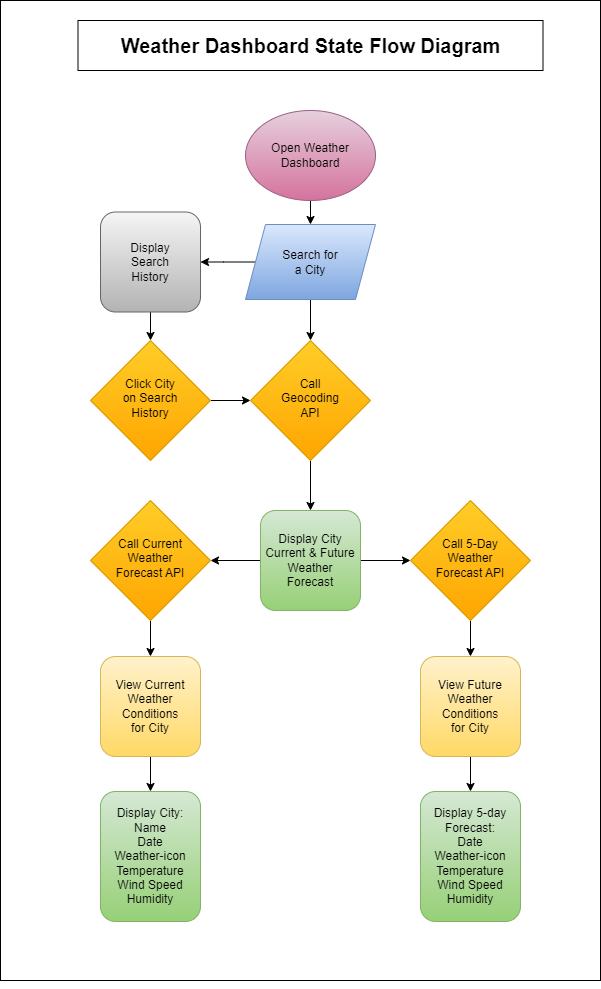
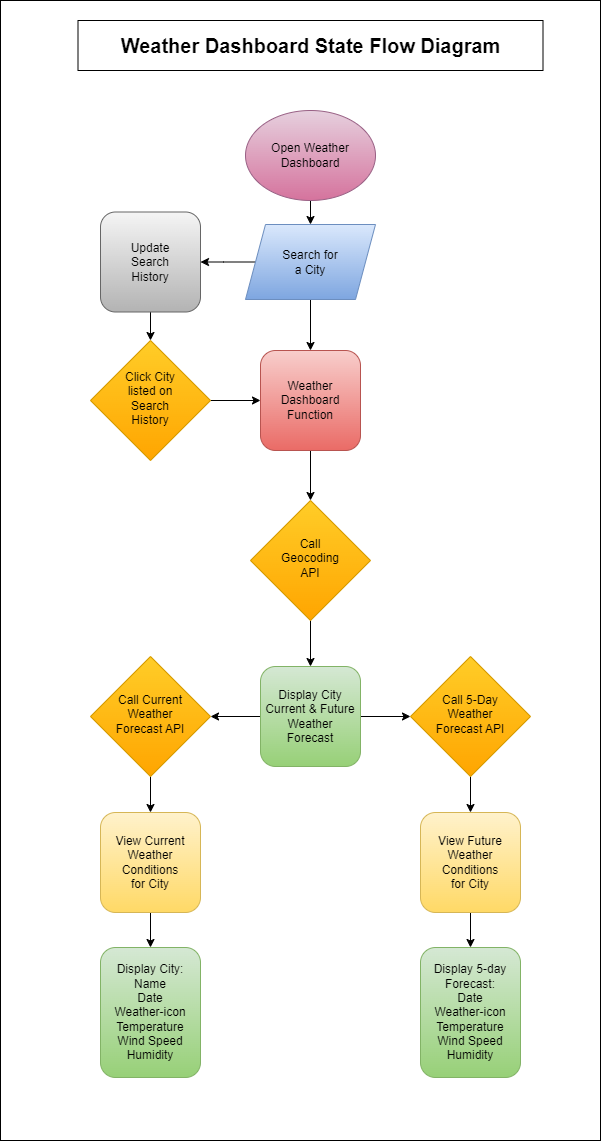
adding script functionality for dashboard

diff --git a/assets/scripts/script.js b/assets/scripts/script.js
@@ -1,86 +1,110 @@
-// Wrap all code that interacts with the DOM in a call to jQuery to ensure that
-// the code isn't run until the browser has finished rendering all the elements
-// in the html.
+// declare global variables
+let currentForecast;
+let futureForecast;
+let locationCity;
 
-$(document).ready(  function () {
+// Add a listener for click event search for a city
+$('#searchButton').on('click', function () {
+  // save value for city entered to variable
+  locationCity = $('#locationInput').val();
+  // console.log(locationCity) // TODO comment when tested
+  // Check if city entered already in history
+  if (!isCityInHistory(locationCity)) {
+    // Call function to add city to search history
+    updateSearchHistory(locationCity);
+  }
+  weatherDashboard(locationCity);  
+});
 
+// function to update seach history, call weather API methods
+// and call functions to display current and 5-day forecast
+function weatherDashboard(City) {
+  // Call geaolocation to find city lat, lon cordinates
+  cityGeocodingAPI(City)
+    .then(([lat, lon]) => {
+      
+      currentWeather(City, lat, lon);
+    })
+    .catch(error => {
+      console.error("Error calling cityGeocodingAPI:", error)
+    });
+  // console.log(geoReturn[0], geoReturn[1]) // TODO comment when tested
+
+  // Call function to display city current forecast
+  
+  // Call function to display city 5-day forecast
+}
+
+// display current weather on dashboard
+function currentWeather(City, lat,lon) {
   // Get the current day using Day.js
   let today = dayjs();
-  let weatherForecast;
-  let locationCity;
-  let latCity;
-  let lonCity;
+  // display name of location, date and weather icon
+  cityDisplayandDate = `${City} (` + today.format('D/MM/YYYY') + ')';
+  $('.current-card h5').text(cityDisplayandDate);
+  // display current temperature, wind speed and humidity
+  // display 5-day forecast for location
+}
 
-  // TODO: Add a listener for click events on the save button. This code should
-  // use the id in the containing time-block as a key to save the user input in
-  // local storage. 
-   // Here save user input to local storage using the id in the containing time-block.
-   $('#searchButton').on('click', function () { // add event listener
-
-    locationCity = $('#locationInput').val();
-    // console.log(locationCity) // TODO comment when tested
-
-    // configure recipe API method and parameters
-    let query = locationCity;
-    let AUTH = 'appid=22c3eb9ede3421b2f412a925f97e46ae';
-    let limit = 'limit=1';
-    const uri = 'http://api.openweathermap.org/geo/1.0/direct?q=' + query + '&' + AUTH + '&' + limit;
-
-    // fetch for location latitude and longitude
-    fetchData(uri).then(data => {
-      weatherForecast = data;
-      latCity = weatherForecast[0].lat;
-      lonCity = weatherForecast[0].lon;
-      displayWeatherCity(latCity,lonCity);
-
-
-      const cityLocation = {
-        location: locationCity,
-        lat: weatherForecast[0].lat,
-        lon: weatherForecast[0].lon
-      };
-
-      // Store data in local storage
-      localStorage.setItem('cityLocation', JSON.stringify(cityLocation));
-
-      // created button into html and add city searched
-      var cityCard = `
-        <li class="list-group-item">
-          <button class="btn btn-secondary col cityButton" type="button">"${locationCity}"</button>
-        </li>
-      `;
-
-      // append city search to search history
-      $("#searchHistory").append(cityCard);
-
-      // Handle clicks on city buttons
-      $("#searchHistory").on("click", ".cityButton", function () {
-      const cityName = $(this).text();
-      // Handle the click action for the city button
-      displayWeatherCity(cityName);
-      console.log(cityName)
-      });
+// find city latitude and longitude from city,state code,country code
+function cityGeocodingAPI(cityGeo) {
+  // configure recipe API method and parameters
+  let AUTH = 'appid=22c3eb9ede3421b2f412a925f97e46ae';
+  let limit = 'limit=1';
+  const apiUrl = 'http://api.openweathermap.org/geo/1.0/direct?q=' + cityGeo + '&' + AUTH + '&' + limit;
+  // return a fetch promise that resolves with city latitude and longitude
+  return new Promise((resolve, reject) => {
+    fetchData(apiUrl)
+      .then(data => {
+        const latCity = data[0].lat;
+        const lonCity = data[0].lon;
+        resolve([latCity, lonCity]);
+      })
+      .catch(error => {
+        reject('Error fetching Geocoding:',error); // reject Promise if catch error
     });
   });
-  
-  function displayWeatherCity(lat,lon) {
+}
 
-    // display name of location, date and weather icon
-    cityDisplayandDate = `${locationCity} (` + today.format('D/MM/YYYY') + ')';
-    $('.current-card h5').text(cityDisplayandDate);
+// here we pass the url we want to call from API and await until fetch responds
+async function fetchData(url) {
+  const fetcher = await fetch(url)
+  const data = await fetcher.json();
+  return data;
+}
 
-    // display current temperature, wind speed and humidity
-    // display 5-day forecast for location
+// Function to check if a city is already in history
+function isCityInHistory(checkCity) {
+  const parts = checkCity.split(",");
+  const extractedString = parts[0]; // extract city from string
+  const historyItems = $('#searchHistory li');
+  for (let i = 0; i < historyItems.length; i++) {
+      const historyItemButton = historyItems.eq(i).find('.cityButton');
+      const historyItemText = historyItemButton.text();
+      if (historyItemText === extractedString) {
+          return true; // City is already in history
+      }
   }
+  return false; // City is not in history
+}
 
-  function displaySearchHistory(){
-
-  }
-
-  // here we pass the url we want to call from API and await until fetch responds
-  async function fetchData(url) {
-    const fetcher = await fetch(url)
-    const data = await fetcher.json();
-    return data;
-  }
-});
+// show city on search history as a click button
+function updateSearchHistory(updateCity) {
+  const parts = updateCity.split(",");
+  const extractedString = parts[0]; // extract city from string
+  // created button into html and add city searched
+  const cityCard = `
+  <li class="list-group-item">
+    <button class="btn btn-secondary btn-block cityButton" data-location="${updateCity}">${extractedString}</button>
+  </li>
+  `;
+  // append city search to search history
+  $("#searchHistory").append(cityCard);
+  // Handle clicks on city buttons
+  $("#searchHistory").on("click", ".cityButton", function () {
+  const cityName = $(this).data("location");
+  // Handle the click action for the city button
+  weatherDashboard(cityName);
+  console.log(cityName) // TODO comment when tested
+  });
+}

diff --git a/index.html b/index.html
@@ -50,77 +50,76 @@
             <h2 class="text-center">5-Day Forecast</h2>
             <div class="row">
                 <!-- Day 1 -->
-                <div class="col-2">
-                  <div class="card">
-                      <div class="card-body">
-                          <h5 class="card-title">Day 1</h5>
-                          <p class="card-text">Weather-icon</p>
-                          <p class="card-text">Temp: 0°C</p>
-                          <p class="card-text">Wind: 0 m/s</p>
-                          <p class="card-text">Humidity: 0%</p>
-                      </div>
-                  </div>
-              </div>
-              <!-- Day 2 -->
-              <div class="col-2">
-                  <div class="card">
-                      <div class="card-body">
-                          <h5 class="card-title">Day 2</h5>
-                          <p class="card-text">Weather-icon</p>
-                          <p class="card-text">Temp: 0°C</p>
-                          <p class="card-text">Wind: 0 m/s</p>
-                          <p class="card-text">Humidity: 0%</p>
-                      </div>
-                  </div>
-              </div>
-              <!-- Day 3 -->
-              <div class="col-2">
-                  <div class="card">
-                      <div class="card-body">
-                          <h5 class="card-title">Day 3</h5>
-                          <p class="card-text">Weather-icon</p>
-                          <p class="card-text">Temp: 0°C</p>
-                          <p class="card-text">Wind: 0 m/s</p>
-                          <p class="card-text">Humidity: 0%</p>
-                      </div>
-                  </div>
-              </div>
-              <!-- Day 4 -->
-              <div class="col-2">
-                  <div class="card">
-                      <div class="card-body">
-                          <h5 class="card-title">Day 4</h5>
-                          <p class="card-text">Weather-icon</p>
-                          <p class="card-text">Temp: 0°C</p>
-                          <p class="card-text">Wind: 0 m/s</p>
-                          <p class="card-text">Humidity: 0%</p>
-                      </div>
-                  </div>
-              </div>
-              <!-- Day 5 -->
-              <div class="col-2">
-                  <div class="card">
-                      <div class="card-body">
-                          <h5 class="card-title">Day 5</h5>
-                          <p class="card-text">Weather-icon</p>
-                          <p class="card-text">Temp: 0°C</p>
-                          <p class="card-text">Wind: 0 m/s</p>
-                          <p class="card-text">Humidity: 0%</p>
-                      </div>
-                  </div>
-              </div>
+                <div class="col">
+                    <div class="card">
+                        <div class="card-body">
+                            <h5 class="card-title">Day 1</h5>
+                            <p class="card-text">Weather-icon</p>
+                            <p class="card-text">Temp: 0°C</p>
+                            <p class="card-text">Wind: 0 m/s</p>
+                            <p class="card-text">Humidity: 0%</p>
+                        </div>
+                    </div>
+                </div>
+                <!-- Day 2 -->
+                <div class="col">
+                    <div class="card">
+                        <div class="card-body">
+                            <h5 class="card-title">Day 2</h5>
+                            <p class="card-text">Weather-icon</p>
+                            <p class="card-text">Temp: 0°C</p>
+                            <p class="card-text">Wind: 0 m/s</p>
+                            <p class="card-text">Humidity: 0%</p>
+                        </div>
+                    </div>
+                </div>
+                <!-- Day 3 -->
+                <div class="col">
+                    <div class="card">
+                        <div class="card-body">
+                            <h5 class="card-title">Day 3</h5>
+                            <p class="card-text">Weather-icon</p>
+                            <p class="card-text">Temp: 0°C</p>
+                            <p class="card-text">Wind: 0 m/s</p>
+                            <p class="card-text">Humidity: 0%</p>
+                        </div>
+                    </div>
+                </div>
+                <!-- Day 4 -->
+                <div class="col">
+                    <div class="card">
+                        <div class="card-body">
+                            <h5 class="card-title">Day 4</h5>
+                            <p class="card-text">Weather-icon</p>
+                            <p class="card-text">Temp: 0°C</p>
+                            <p class="card-text">Wind: 0 m/s</p>
+                            <p class="card-text">Humidity: 0%</p>
+                        </div>
+                    </div>
+                </div>
+                <!-- Day 5 -->
+                <div class="col">
+                    <div class="card">
+                        <div class="card-body">
+                            <h5 class="card-title">Day 5</h5>
+                            <p class="card-text">Weather-icon</p>
+                            <p class="card-text">Temp: 0°C</p>
+                            <p class="card-text">Wind: 0 m/s</p>
+                            <p class="card-text">Humidity: 0%</p>
+                        </div>
+                    </div>
+                </div>
+            </div>
+            
             </div>
         </div>
     </div>
   </div>
 
-  
-
   <script src="https://cdnjs.cloudflare.com/ajax/libs/jquery/3.2.1/jquery.min.js"></script>
   <script src="https://cdn.jsdelivr.net/npm/dayjs@1.11.3/dayjs.min.js"
   integrity="sha256-iu/zLUB+QgISXBLCW/mcDi/rnf4m4uEDO0wauy76x7U="
   crossorigin="anonymous"></script>
-
   <script src="https://ajax.googleapis.com/ajax/libs/jquery/3.7.1/jquery.min.js"></script>
   <script src="./assets/scripts/script.js"></script>
     

diff --git a/README.md b/README.md
@@ -112,9 +112,6 @@ fetch(apiUrl)
     // Handle the current weather data here
     console.log(data);
   })
-  .catch(error => {
-    console.error('Error fetching current weather:', error);
-  });
   ```
 
 c. 5-Day Weather Forecast
@@ -137,10 +134,6 @@ fetch(apiUrl)
     // Handle the 5-day weather forecast data here
     console.log(data);
   })
-  .catch(error => {
-    console.error('Error fetching 5-day weather forecast:', error);
-  });
-
 ```
 ### 4. Handling the API Response
 
